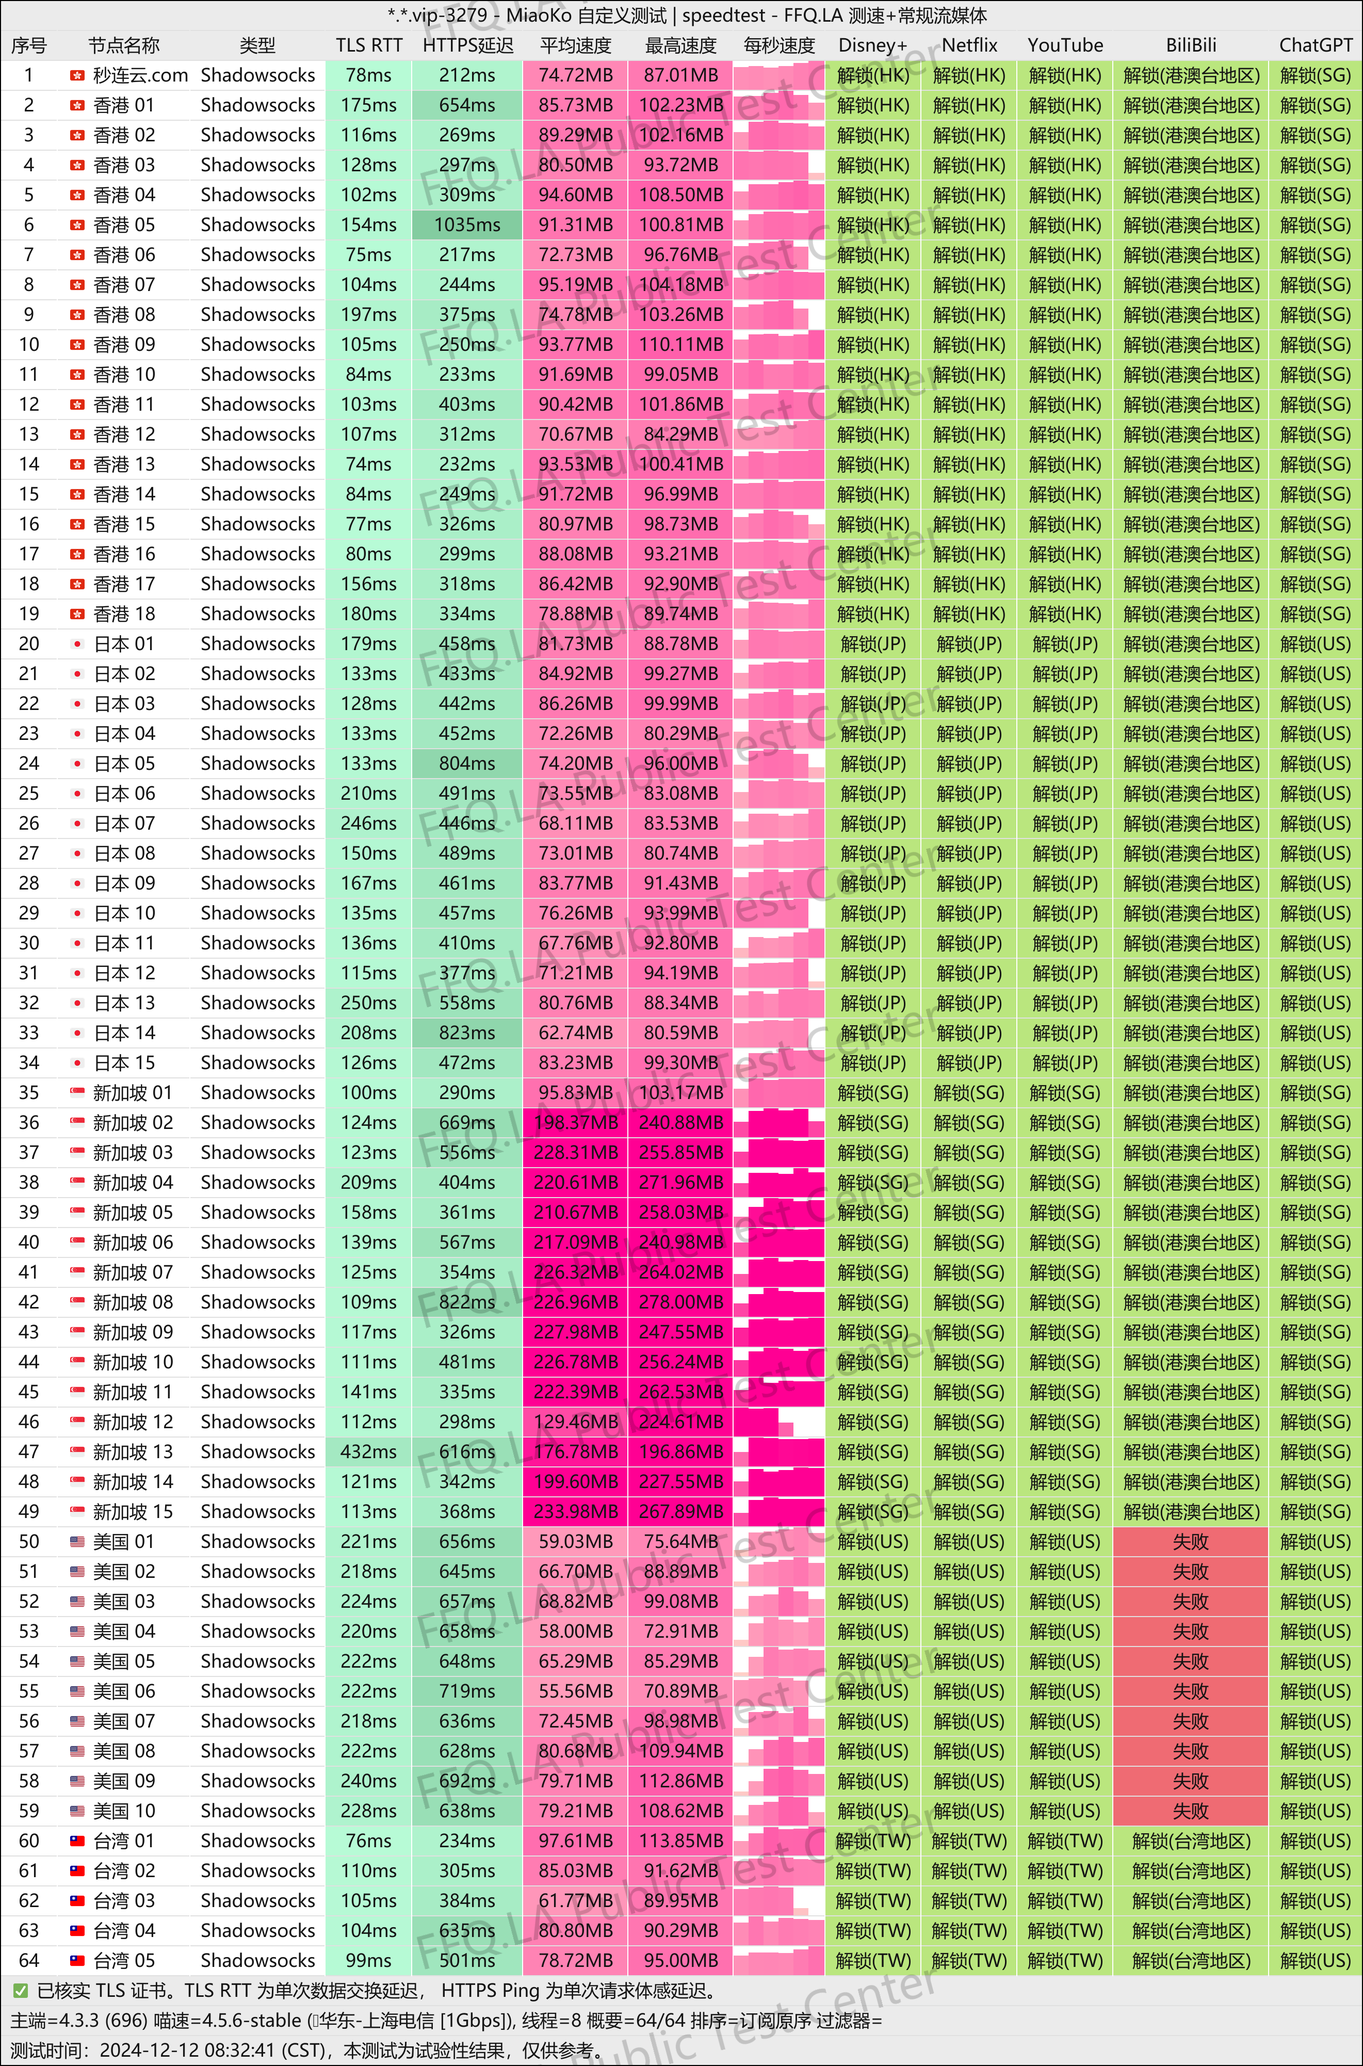
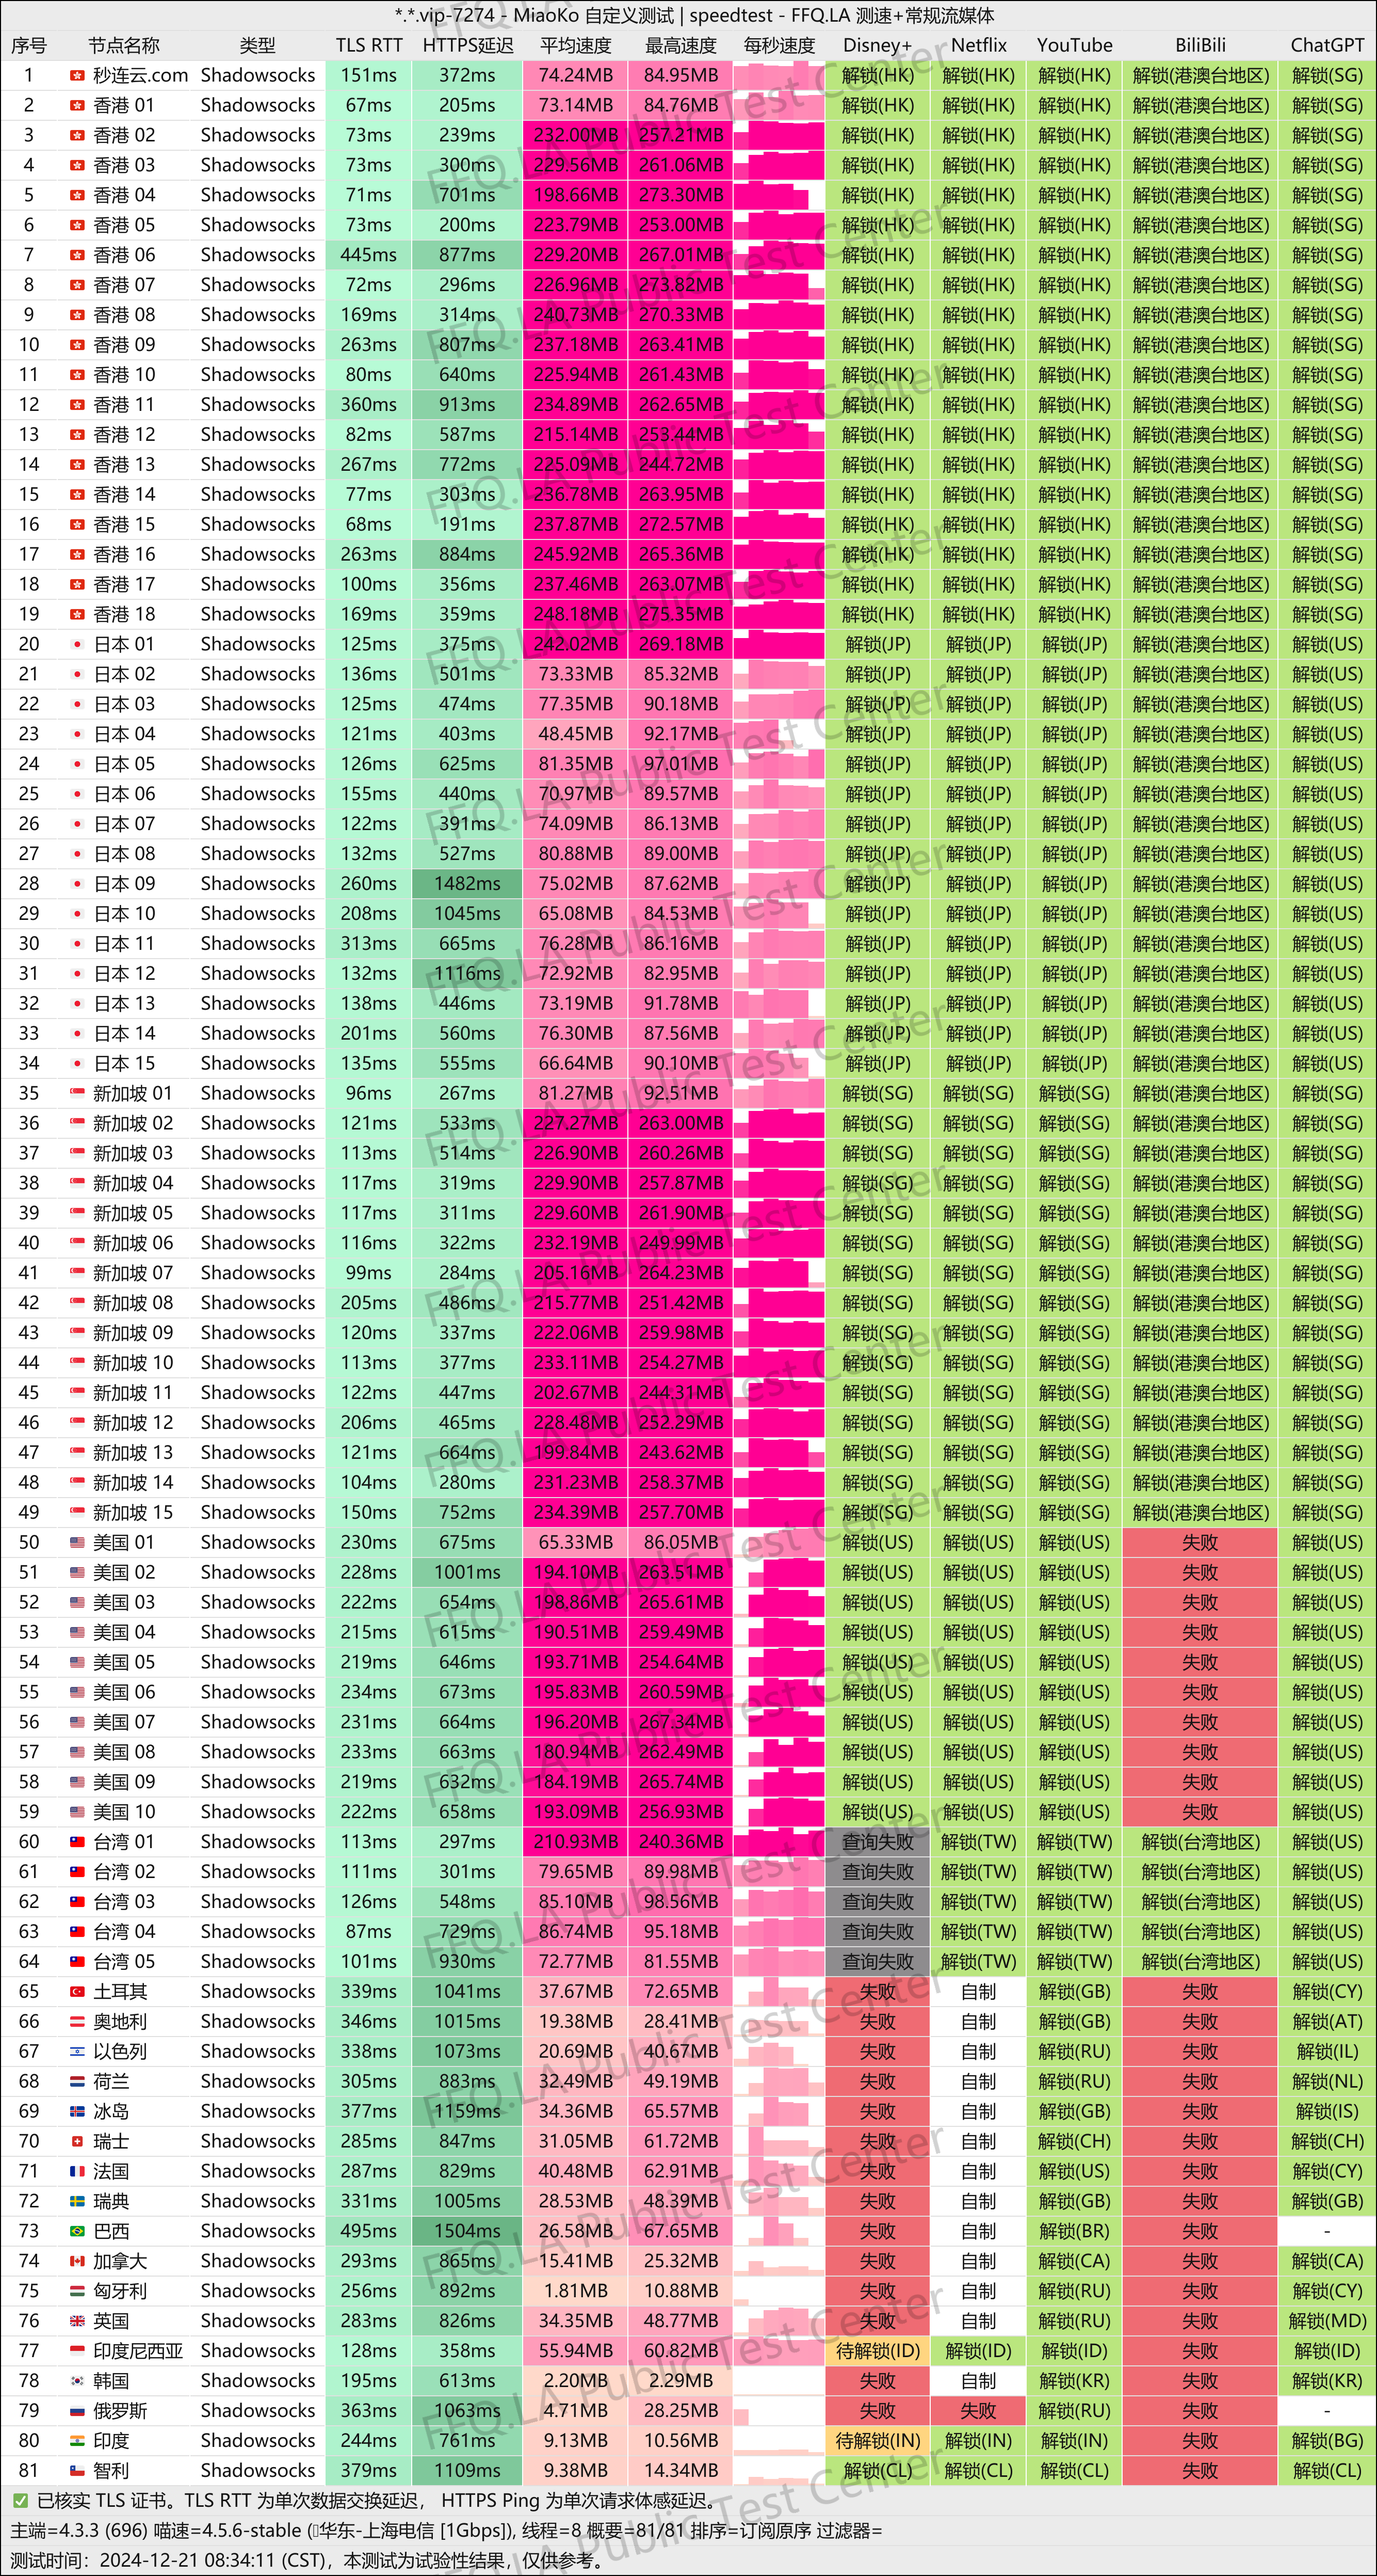
Add new content

diff --git a/.vitepress/theme/components/Layout.vue b/.vitepress/theme/components/Layout.vue
@@ -8,28 +8,21 @@ const { Layout } = DefaultTheme
     <Layout>
         <template #sidebar-nav-after>
             <!-- <a class="sponsor-sidebar" href="/contact">成为赞助商</a> -->
-            <a href="https://fengwo.online/#/login?code=V7viRyig" target="_blank" rel="noreferrer nofollow">
+            <a href="https://mly01.miaolianyun.my/#/register?code=EeOKOE2v" target="_blank" rel="noreferrer nofollow">
                 <div class="gg-container">
-                    <img src="/images/sponsor/fengwo/20241021.gif" alt="蜂窝vpn机场推荐" title="点击访问" />
+                    <img src="/images/sponsor/miaolianyun/20241212.webp" alt="秒连云机场推荐" title="点击访问" />
                     <span class="gg-text">广告</span>
                 </div>
             </a>
             <br>
             <a href="https://ber1.fnjs7.xyz/" target="_blank" rel="noreferrer nofollow">
                 <div class="gg-container">          
-                    <img src="/images/sponsor/feiniao/20241209.gif" alt="飞鸟加速器VPN推荐" title="点击访问" />
+                    <img src="/images/sponsor/feiniao/20241209.gif" alt="飞鸟加速器vpn推荐" title="点击访问" />
                     <span class="gg-text">广告</span>
                 </div>
             </a>
         </template>
         <template #aside-outline-before>
-            <a href="https://mly01.miaolianyun.my/#/register?code=EeOKOE2v" target="_blank" rel="noreferrer nofollow">
-                <div class="gg-container">
-                    <img src="/images/sponsor/miaolianyun/20241212.gif" alt="秒连云机场推荐" title="点击访问" />
-                    <span class="gg-text">广告</span>
-                </div>
-            </a>
-            <br>
             <a href="https://guolicheng.cc/index.php#/register?code=shKXijFC" target="_blank" rel="noreferrer nofollow">
                 <div class="gg-container">
                     <img src="/images/sponsor/guolicheng/2024111100.gif" alt="果粒橙机场推荐" title="点击访问" />
@@ -47,13 +40,6 @@ const { Layout } = DefaultTheme
             <a href="https://guolicheng.cc/index.php#/register?code=shKXijFC" target="_blank" rel="noreferrer nofollow">
                 <div class="gg-container">
                     <img src="/images/sponsor/guolicheng/2024111100.gif" alt="果粒橙机场推荐" title="点击访问" />
-                    <span class="gg-text">广告</span>
-                </div>
-            </a>
-            <br>
-            <a href="https://mly01.miaolianyun.my/#/register?code=EeOKOE2v" target="_blank" rel="noreferrer nofollow">
-                <div class="gg-container">
-                    <img src="/images/sponsor/miaolianyun/20241212.gif" alt="秒连云机场推荐" title="点击访问" />
                     <span class="gg-text">广告</span>
                 </div>
             </a>

diff --git a/src/vpn/index.md b/src/vpn/index.md
@@ -25,27 +25,33 @@
 [价格详情](/images/sponsor/hongxing/20241201000000.webp)&nbsp;
 [节点测速](/images/sponsor/hongxing/20241201000001.webp)
 
-## 蜂窝 VPN [广告] <Badge type="danger" text="付费机场" />
+## 秒连云 [广告] <Badge type="danger" text="付费机场" />
 
-低至 6 元购买“高速中转”60GB/30 天套餐。
+使用优惠码购买“秒连云系列”套餐。
 
-`八线中转` `CDN 加速` `家宽节点` `千兆带宽`
+|折扣|优惠码|付款周期|
+|-|-|-|
+|6.6 折|MY66|半年付|
+|7.7 折|MY77|月付、季付|
+|8.8 折|MY88|年付|
 
-> 深港 + 沪日 + 沪美 + 广港 + 沪韩 IEPL 专线，7*24 小时客服，赠送 Emby 服务！
+`4K 秒开` `80+ 节点` `20% 返利` `超值套餐`
 
-节点位置：澳大利亚、孟加拉、巴西、柬埔寨、加拿大、埃及、法国、德国、香港、冰岛、印度、印尼、印尼、日本、哈萨克斯坦、韩国、立陶宛、马来西亚、墨西哥、荷兰、新西兰、秘鲁、波兰、新加坡、西班牙、瑞典、泰国、台湾、土耳其、英国、乌克兰、美国、越南、阿联酋
+> 高速中转线路，畅享全球流媒体，全球节点覆盖！
+
+节点位置：香港、日本、新加坡、美国、台湾、土耳其、奥地利、以色列、荷兰、冰岛、瑞士、法国、瑞典、巴西、加拿大、匈牙利、英国、印度尼西亚、韩国、俄罗斯、印度、智利
 
 协议类型：Shadowsocks
 
-节点数量：127
+节点数量：80
 
-<a href="https://fengwo.online/#/login?code=V7viRyig" target="_blank" rel="noreferrer nofollow">前往体验</a>&nbsp;
-<a href="https://t.me/FengWoVpn1688" target="_blank" rel="noreferrer nofollow">联系方式</a>&nbsp;
-[价格详情](/images/sponsor/fengwo/20241122135554.webp)&nbsp;
-[节点测速](/images/sponsor/fengwo/20240918144141.webp)
+<a href="https://mly01.miaolianyun.my/#/register?code=EeOKOE2v" target="_blank" rel="noreferrer nofollow">前往注册</a>&nbsp;
+<a href="https://t.me/miaolianyun" target="_blank" rel="noreferrer nofollow">联系方式</a>&nbsp;
+[价格详情](/images/sponsor/miaolianyun/20241212002031.webp)&nbsp;
+[节点测速](/images/sponsor/miaolianyun/20241212002031.png)
 
-::: info 注冊信息
+::: info 注册信息
 无需验证。
 :::
 
-> <Deadline targetDate="2024-12-21 12:00:00" />
+> <Deadline targetDate="2025-01-12 12:00:00" />

diff --git a/src/vpn/footer.md b/src/vpn/footer.md
@@ -1,28 +1,3 @@
-## 秒连云 [广告] <Badge type="danger" text="付费机场" />
-
-使用优惠码 `MLY50` 5 折购买“秒连云不限时系列”套餐。
-
-`4K 秒开` `60+ 节点` `20% 返利` `超值套餐`
-
-> 高速中转线路，畅享全球流媒体，全球节点覆盖！
-
-节点位置：香港、日本、新加坡、美国、台湾
-
-协议类型：Shadowsocks
-
-节点数量：64
-
-<a href="https://mly01.miaolianyun.my/#/register?code=EeOKOE2v" target="_blank" rel="noreferrer nofollow">前往注册</a>&nbsp;
-<a href="https://t.me/miaolianyun" target="_blank" rel="noreferrer nofollow">联系方式</a>&nbsp;
-[价格详情](/images/sponsor/miaolianyun/20241212002031.webp)&nbsp;
-[节点测速](/images/sponsor/miaolianyun/20241212002031.png)
-
-::: info 注册信息
-无需验证。
-:::
-
-> <Deadline targetDate="2025-01-12 12:00:00" />
-
 ## 果粒橙机场 [广告] <Badge type="danger" text="付费机场" />
 
 5 元购买“果粒橙直连”1000GB/30 天套餐。
